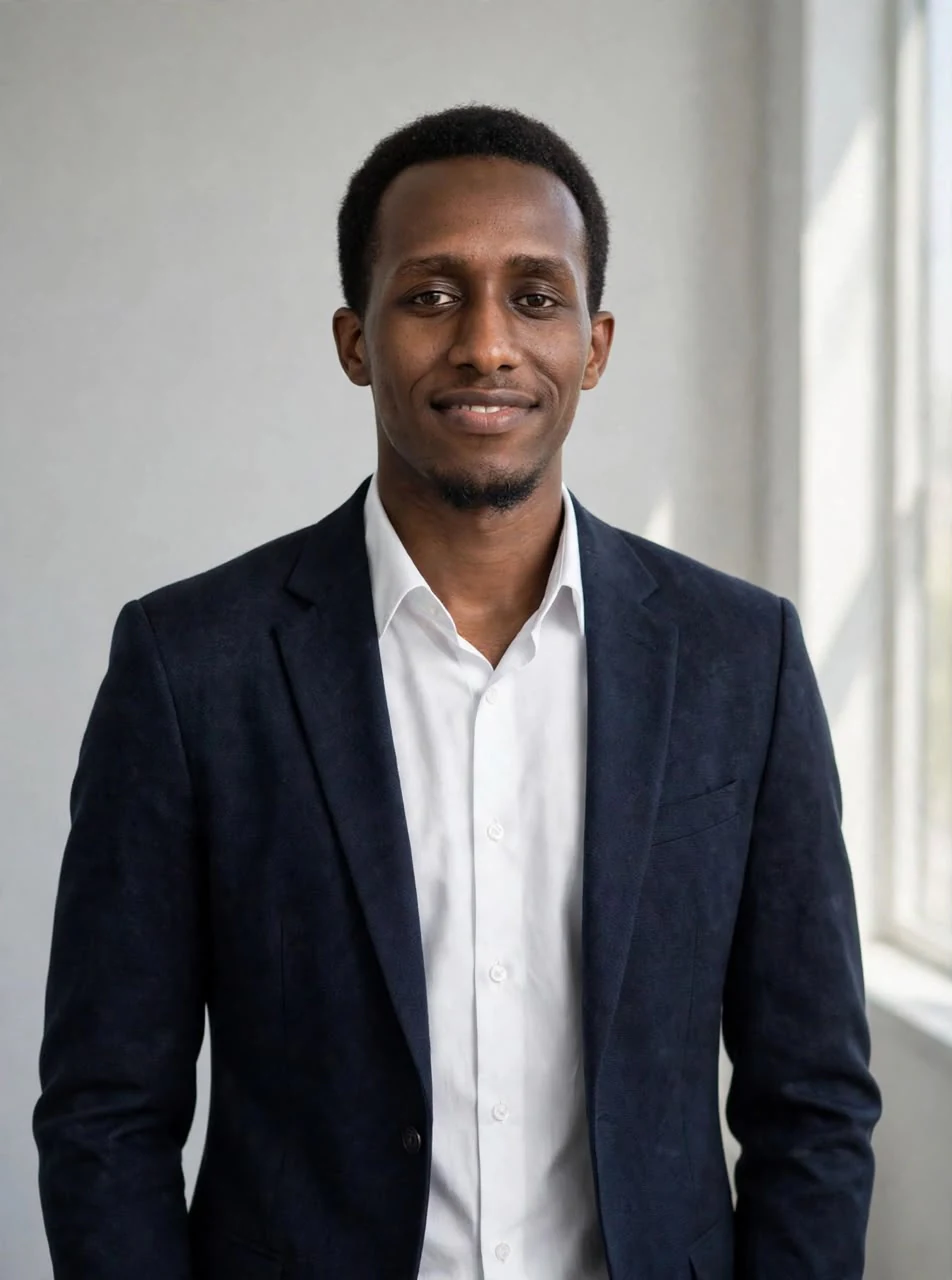
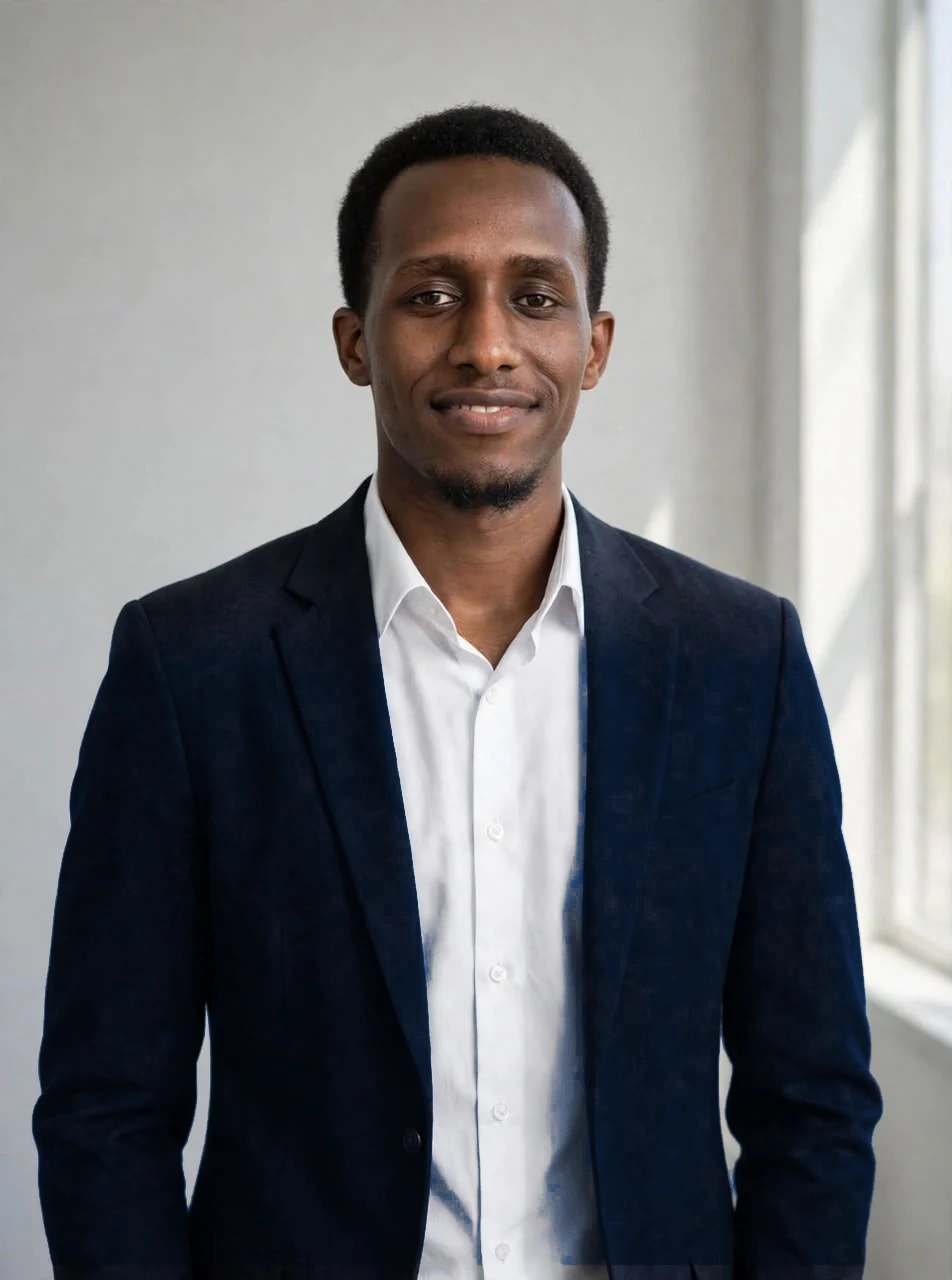
Polish scroll reveals and portfolio imagery

diff --git a/app/globals.css b/app/globals.css
@@ -1138,7 +1138,7 @@ img {
 @keyframes section-reveal {
   from {
     opacity: 0;
-    transform: translateY(12px);
+    transform: translateY(22px);
   }
   to {
     opacity: 1;
@@ -1146,10 +1146,23 @@ img {
   }
 }
 
-@keyframes card-reveal {
+@keyframes scroll-image-reveal {
   from {
     opacity: 0;
     translate: 0 18px;
+    scale: 0.985;
+  }
+  to {
+    opacity: 1;
+    translate: 0 0;
+    scale: 1;
+  }
+}
+
+@keyframes scroll-copy-reveal {
+  from {
+    opacity: 0;
+    translate: 0 12px;
   }
   to {
     opacity: 1;
@@ -1197,19 +1210,61 @@ img {
 
 @supports (animation-timeline: view()) {
   @media (prefers-reduced-motion: no-preference) {
+    .section-heading,
     .featured-copy,
-    .orch-gallery,
     .about-layout > *,
-    .contact-layout > * {
-      animation: section-reveal 460ms cubic-bezier(0.2, 0.7, 0.25, 1) both;
+    .contact-layout > *,
+    .site-footer .footer-layout > * {
+      animation: section-reveal auto both;
+      animation-timing-function: cubic-bezier(0.2, 0.7, 0.25, 1);
       animation-timeline: view();
-      animation-range: entry 0% entry 35%;
+      animation-range: entry 0% entry 52%;
     }
 
     .project-card {
-      animation: card-reveal 520ms cubic-bezier(0.2, 0.7, 0.25, 1) both;
+      view-timeline-name: --project-card;
+      view-timeline-axis: block;
+    }
+
+    .project-gallery {
+      animation: scroll-image-reveal auto both;
+      animation-timing-function: cubic-bezier(0.2, 0.7, 0.25, 1);
+      animation-timeline: --project-card;
+      animation-range: entry 0% entry 54%;
+    }
+
+    .project-card-copy {
+      animation: scroll-copy-reveal auto both;
+      animation-timing-function: cubic-bezier(0.2, 0.7, 0.25, 1);
+      animation-timeline: --project-card;
+      animation-range: entry 17% entry 70%;
+    }
+
+    .orch-gallery {
+      animation: scroll-image-reveal auto both;
+      animation-timing-function: cubic-bezier(0.2, 0.7, 0.25, 1);
       animation-timeline: view();
-      animation-range: entry 0% entry 36%;
+      animation-range: entry 8% entry 62%;
+    }
+
+    .about-layout > :first-child {
+      animation-range: entry 0% entry 48%;
+    }
+
+    .about-layout > :nth-child(2) {
+      animation-range: entry 12% entry 60%;
+    }
+
+    .about-layout > :nth-child(3) {
+      animation-range: entry 22% entry 70%;
+    }
+
+    .contact-layout > :first-child {
+      animation-range: entry 0% entry 50%;
+    }
+
+    .contact-layout > :last-child {
+      animation-range: entry 14% entry 64%;
     }
   }
 
